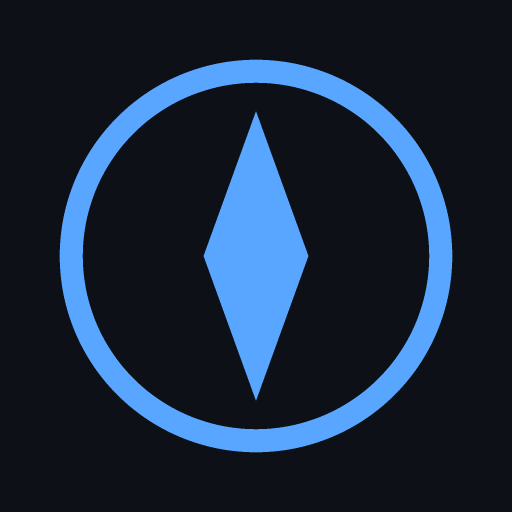
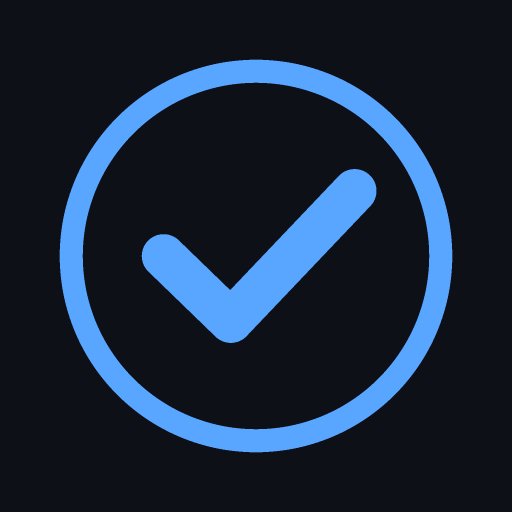
Rename Award Compass to MileMatch
The old name described orientation; this one describes what the app does -
match your balances against flights you can actually book.

- Repo, Pages URL, package name, worker name -> milematch
- Display name, title, manifest name/short_name -> MileMatch
- Icon redrawn: the compass mark made no sense for MileMatch, replaced
  with a check inside a ring (matched)
- Service worker cache reset to milematch-v1, which also purges the old
  award-compass caches on activate
- README test counts corrected (41 engine + 10 browser, was a stale 33)

GitHub redirects the old repo URL, so existing links keep working.

Changed region(s): [[0.2812, 0.2188, 0.75, 0.7812]]

diff --git a/index.html b/index.html
@@ -3,7 +3,7 @@
 <head>
 <meta charset="utf-8">
 <meta name="viewport" content="width=device-width, initial-scale=1, viewport-fit=cover">
-<title>Award Compass — points & miles flight optimizer</title>
+<title>MileMatch — points & miles flight optimizer</title>
 <meta name="description" content="Enter your points balances, model a credit card bonus, and see which loyalty program books your flight for the fewest points.">
 <meta name="theme-color" content="#0d1117">
 <link rel="manifest" href="manifest.webmanifest">
@@ -17,10 +17,11 @@
   <div class="brand">
     <svg viewBox="0 0 32 32" class="brand-mark" aria-hidden="true">
       <circle cx="16" cy="16" r="14" fill="none" stroke="currentColor" stroke-width="2"/>
-      <path d="M16 5 L20 16 L16 27 L12 16 Z" fill="currentColor"/>
+      <path d="M10 16.2 L14.2 20.6 L22.2 12" fill="none" stroke="currentColor"
+            stroke-width="2.8" stroke-linecap="round" stroke-linejoin="round"/>
     </svg>
     <div>
-      <h1>Award Compass</h1>
+      <h1>MileMatch</h1>
       <p class="tagline">Which points book this flight for the least?</p>
     </div>
   </div>
@@ -204,7 +205,7 @@
     </p>
     <label class="field">
       <span>Worker URL</span>
-      <input id="proxyInput" type="url" placeholder="https://award-compass.yourname.workers.dev">
+      <input id="proxyInput" type="url" placeholder="https://milematch.yourname.workers.dev">
     </label>
     <div class="row">
       <button id="testProxy" class="btn">Test connection</button>

diff --git a/tests/browser.test.js b/tests/browser.test.js
@@ -87,7 +87,7 @@ test.before(async () => {
   });
   await sleep(700);
 
-  const profile = fs.mkdtempSync(path.join(os.tmpdir(), 'awc-test-'));
+  const profile = fs.mkdtempSync(path.join(os.tmpdir(), 'mm-test-'));
   chrome = spawn(CHROME, [
     '--headless=new', '--disable-gpu', '--no-sandbox', '--no-first-run',
     `--remote-debugging-port=${PORT}`, `--user-data-dir=${profile}`, 'about:blank'

diff --git a/worker/worker.js b/worker/worker.js
@@ -1,4 +1,4 @@
-/* Award Compass fare proxy — Cloudflare Worker (free tier: 100k requests/day).
+/* MileMatch fare proxy — Cloudflare Worker (free tier: 100k requests/day).
  *
  * Why this exists: a static GitHub Pages site cannot call Amadeus directly.
  * The browser blocks it on CORS, and an API key shipped in front-end JavaScript

diff --git a/serve.js b/serve.js
@@ -48,6 +48,6 @@ http.createServer((req, res) => {
     fs.createReadStream(file).pipe(res);
   });
 }).listen(PORT, () => {
-  console.log(`Award Compass running at http://localhost:${PORT}`);
+  console.log(`MileMatch running at http://localhost:${PORT}`);
   console.log('Press Ctrl+C to stop.');
 });

diff --git a/sw.js b/sw.js
@@ -5,7 +5,7 @@
  *
  * Bump CACHE when you change any cached file, or the old copy will stick around.
  */
-const CACHE = 'award-compass-v3';
+const CACHE = 'milematch-v1';
 
 const ASSETS = [
   './',

diff --git a/css/styles.css b/css/styles.css
@@ -1,4 +1,4 @@
-/* Award Compass — dark-first, installs as a desktop app, no framework. */
+/* MileMatch — dark-first, installs as a desktop app, no framework. */
 
 :root {
   --bg: #0d1117;

diff --git a/README.md b/README.md
@@ -1,4 +1,4 @@
-# Award Compass
+# MileMatch
 
 A points-and-miles flight optimizer that runs entirely in your browser. Enter
 your balances, model a credit card welcome bonus, and see which loyalty program
@@ -45,20 +45,26 @@ off the filesystem with no server.
 For the service worker and install prompt to work you need real HTTP:
 
 ```bash
-npm run serve      # http://localhost:8080
-npm test           # 33 engine tests
+npm run serve        # http://localhost:8080
+npm test             # 41 engine tests (pure logic, no browser needed)
+npm run test:browser # 10 DOM tests, drives real Chrome over the DevTools Protocol
+npm run test:all     # both suites
 ```
+
+The browser suite skips itself if Chrome isn't installed. It exists because the
+engine tests can't see the DOM — an input handler that eats keystrokes or a link
+that goes stale will pass every unit test while the app is visibly broken.
 
 ## Publishing to GitHub Pages
 
 ```bash
-git remote add origin https://github.com/YOUR-USERNAME/award-compass.git
+git remote add origin https://github.com/YOUR-USERNAME/milematch.git
 git push -u origin main
 ```
 
 Then on GitHub: **Settings → Pages → Source: Deploy from a branch → `main` / `/ (root)`**.
 
-Your site appears at `https://YOUR-USERNAME.github.io/award-compass/` within a
+Your site appears at `https://YOUR-USERNAME.github.io/milematch/` within a
 minute or two. It must be a **public** repo — Pages on private repos requires a
 paid plan.
 
@@ -145,7 +151,8 @@ js/store.js             localStorage persistence
 js/app.js               UI controller
 data/*.js               the editable reference data
 worker/                 optional Cloudflare Worker for live fares
-tests/engine.test.js    33 tests over the engine
+tests/engine.test.js    41 tests over the pricing engine
+tests/browser.test.js   10 DOM interaction tests in real Chrome
 sw.js                   service worker (offline + installability)
 ```
 

diff --git a/worker/README.md b/worker/README.md
@@ -44,7 +44,7 @@ npx wrangler secret put AMADEUS_CLIENT_SECRET   # paste your API Secret
 npx wrangler deploy
 ```
 
-Wrangler prints a URL like `https://award-compass.yourname.workers.dev`.
+Wrangler prints a URL like `https://milematch.yourname.workers.dev`.
 
 ### 3. Point the app at it
 
